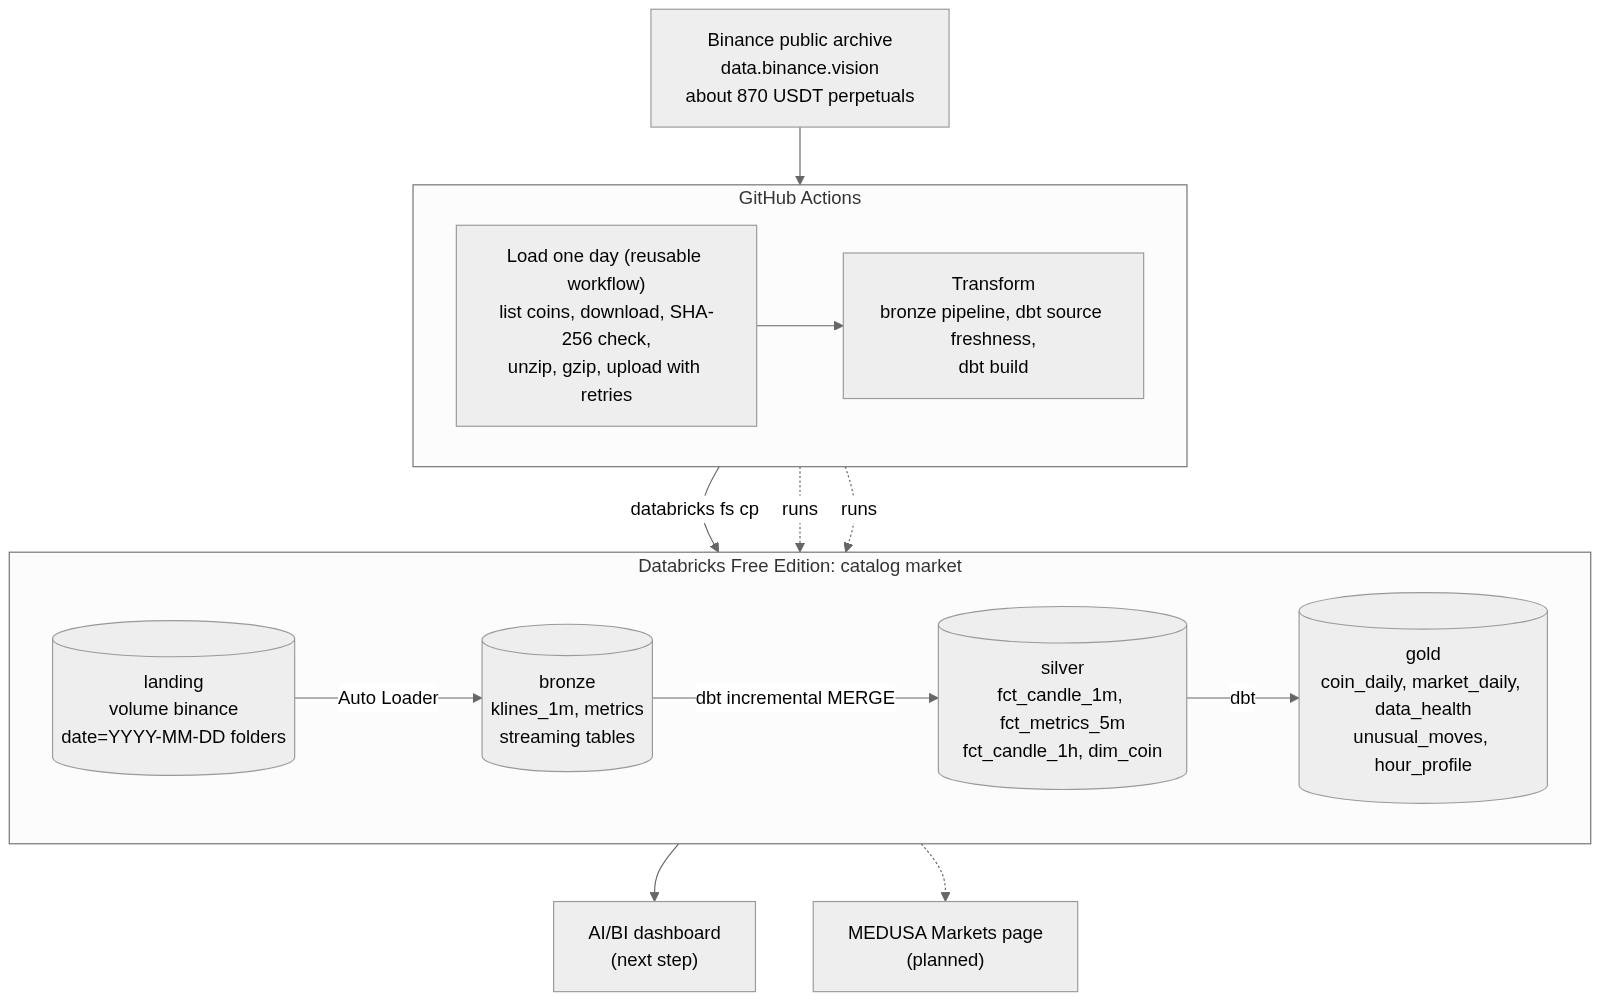
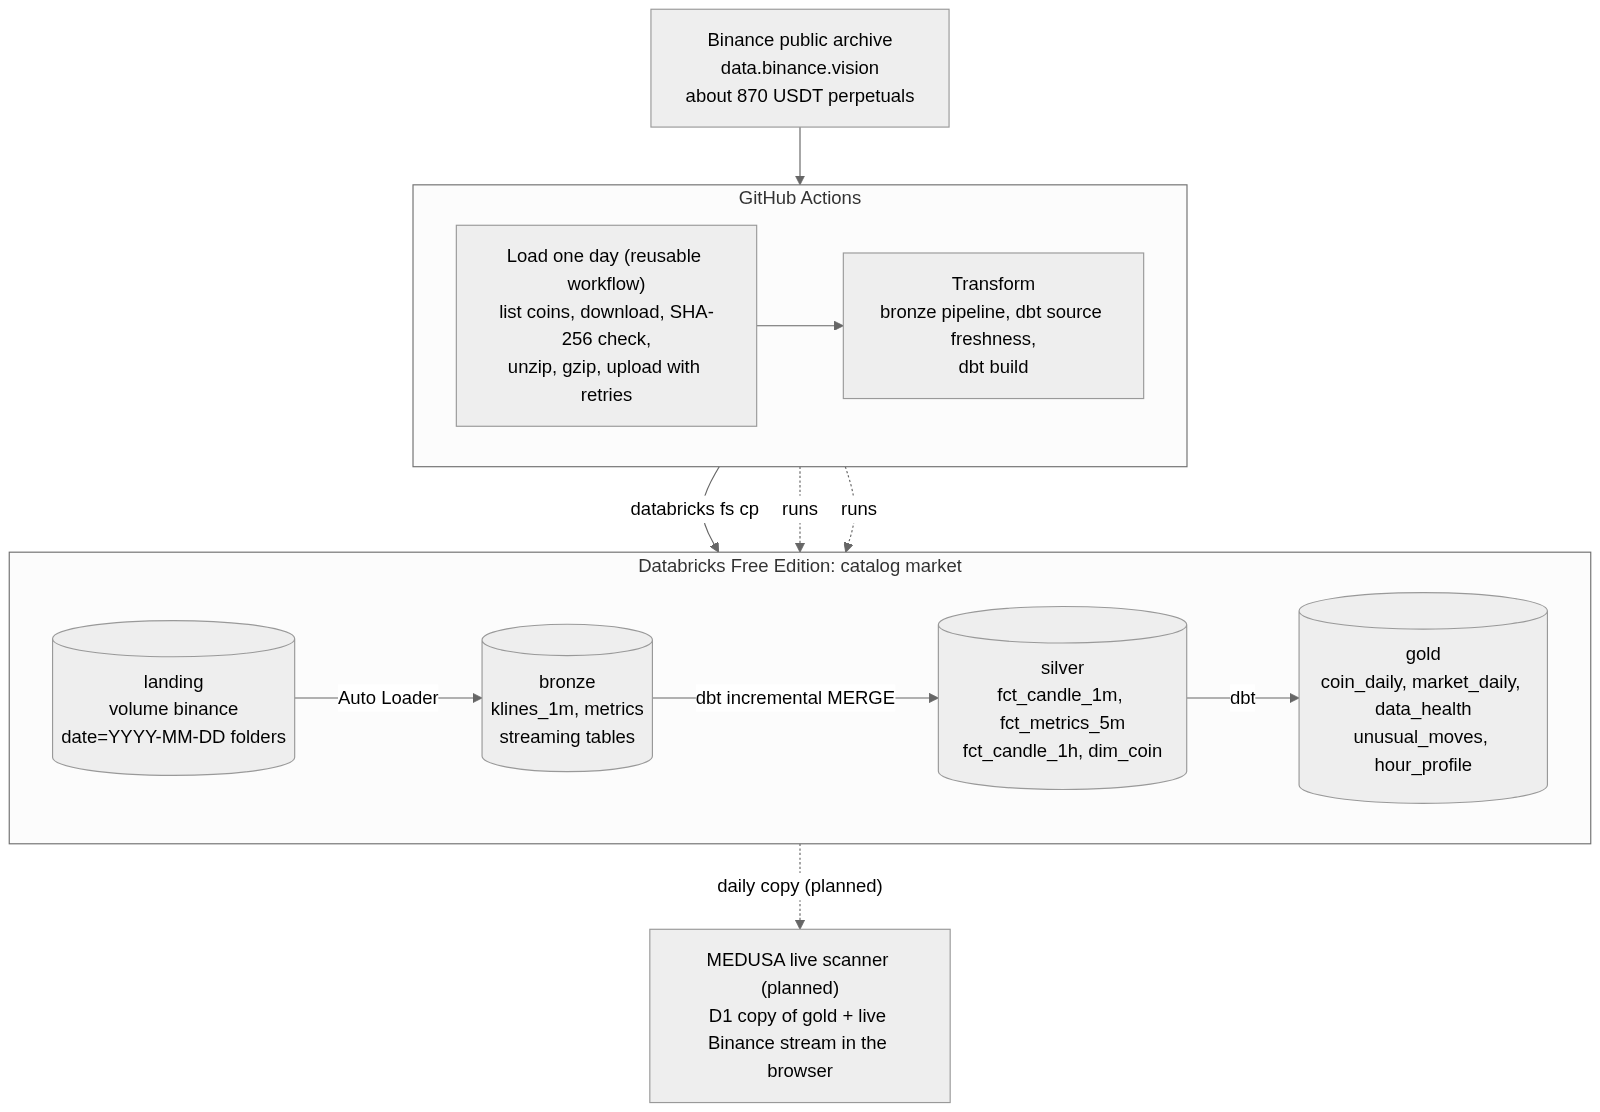
Docs: step 18 (active coins), ADR-018, updated diagrams; live scanner replaces the dashboard plan

diff --git a/lakehouse/docs/steps/18-active-coins.md b/lakehouse/docs/steps/18-active-coins.md
@@ -1,0 +1,86 @@
+# Step 18: Count only coins that actually trade
+
+[← Lakehouse home](../../README.md) · [← Step 17](17-daily-chain.md)
+
+| | |
+|---|---|
+| **Built** | 2026-10-20 |
+| **Commit** | `c584f93` Lakehouse: count only coins that trade (delisted contracts still get flat candles); coin status from trades |
+| **Files** | [`dbt/models/silver/int_coin_status.sql`](../../dbt/models/silver/int_coin_status.sql) · [`dbt/models/gold/market_daily.sql`](../../dbt/models/gold/market_daily.sql) · [`dbt/models/gold/data_health.sql`](../../dbt/models/gold/data_health.sql) · [`dbt/tests/assert_market_daily_counts_every_coin.sql`](../../dbt/tests/assert_market_daily_counts_every_coin.sql) · [`dbt/tests/assert_trading_coins_have_trades.sql`](../../dbt/tests/assert_trading_coins_have_trades.sql) (new) |
+| **Decision** | [ADR-018](../decisions.md#adr-018-a-coin-trades-only-if-it-has-trades) |
+
+## Goal
+
+Make sure every table counts only coins that really trade, before the live scanner is built on top
+of them: the scanner must never flag a dead contract, and each coin's "normal" must not be skewed.
+
+## What was wrong
+
+While testing the first scanner query, 129 coins had no spread of daily volume at all. They weren't
+missing data: they had candles every day, all flat, all with zero volume.
+
+| Check | Result |
+|---|---|
+| Coins in the archive, last day | 873 |
+| Coins with at least one trade in their last 3 days | 740 |
+| Coins with no trades in their last 3 days | 133 |
+| Those 133 in Binance's own contract list (`/fapi/v1/exchangeInfo`) | 132 are `SETTLING` (delisted, being settled); 1 is gone (the coin that dropped out on 2026-10-13) |
+| The 740 active coins | 519 crypto perpetuals and 220 TradFi perpetuals (stocks and similar), all `TRADING`, plus 1 coin delisted within the last 3 days |
+
+Binance keeps publishing flat, zero-volume candles for contracts it has delisted. The tables treated
+"has candles" as "trades", so on 2026-10-19 `market_daily` counted 135 "unchanged" coins (132 of
+them dead) and its median return was exactly 0. [Step 14](14-gold-market-and-health.md) explained
+that zero as "the unchanged coins sit in the middle"; this is why they were there.
+
+## Concepts
+
+| Concept | Here |
+|---|---|
+| **A row isn't proof of activity** | The archive's meaning changed without its format changing. Checking that data arrived isn't enough; check what it means. |
+| **Cross-source validation** | Comparing the archive with Binance's own contract list showed what the zero-volume coins were. |
+| **SCD Type 2 records a correction** | `dim_coin` closed the `trading` version of 132 coins and opened `not trading` versions dated when this build ran, although some stopped trading as early as 2026-09-24. System time (when the warehouse learned it) differs from valid time (when it happened). |
+| **Cheaper lineage** | `int_coin_status` now reads the hourly table (about 670,000 rows) instead of the 1-minute table (about 40 million and growing by 1.26 million a day); the days and trades are the same. |
+| **Cross-layer test** | A new test checks silver (`dim_coin`) against gold (`coin_daily`): every coin called trading must have traded in the last 3 days, and every coin called not trading must not have. |
+
+## Code walkthrough
+
+```sql
+-- int_coin_status.sql
+max(case when trades > 0 then candle_date end) as last_trade_date      -- from fct_candle_1h
+…
+case when last_trade_date >= date_sub(latest_date, 2) then 'trading' else 'not trading' end as status
+```
+
+```sql
+-- market_daily.sql
+with active   as (select * from {{ ref('coin_daily') }} where trades > 0),
+     inactive as (select trade_date, count(*) as coins_inactive
+                  from {{ ref('coin_daily') }} where trades = 0 group by trade_date),
+     days     as (select trade_date, count(*) as coins, … from active group by trade_date)
+select d.trade_date, d.coins, coalesce(i.coins_inactive, 0) as coins_inactive, …
+```
+
+`data_health` also gets `coins_inactive`. The reconciliation test now checks that active plus
+inactive coins make up every coin in `coin_daily`, and that up, down and flat add up to the active
+coins with a return.
+
+## How to run
+
+From `lakehouse/dbt/`: `../.venv/Scripts/dbt build`
+
+## Result
+
+`PASS=77 WARN=0 ERROR=0` (9 models, 1 snapshot, 67 tests) in 3 minutes 36 seconds.
+
+| | Before | After |
+|---|---|---|
+| `dim_coin` current versions | 872 trading, 1 not trading | 740 trading, 133 not trading (1,877 versions of 873 coins) |
+| `market_daily`, 2026-10-19: coins | 872 | 740 active + 132 `coins_inactive` |
+| Unchanged coins | 135 | 3 |
+| Median coin return | 0 (an artifact) | +0.40% |
+| Median realised volatility | 3.7% | 3.96% |
+| Breadth | 0.585 | 0.585 (flat coins never counted in breadth) |
+
+## Problems we hit
+
+None in the build; the problem was the finding itself.

diff --git a/lakehouse/docs/data-dictionary.md b/lakehouse/docs/data-dictionary.md
@@ -159,13 +159,13 @@ One row per **version** of a coin's description (SCD Type 2), kept by the dbt sn
 | `quote_asset` | STRING | Always `USDT` |
 | `multiplier` | INT | Coins per quoted unit: 1, 1,000 or 1,000,000 |
 | `first_candle_date` | DATE | First day with candles in the lakehouse |
-| `status` | STRING | `trading`, or `not trading` after 3 days without candles |
+| `status` | STRING | `trading`, or `not trading` after 3 days without a single trade (delisted contracts keep getting flat, zero-volume candles, so candles alone don't count) |
 | `dbt_scd_id` | STRING | dbt's unique id for the version |
 | `dbt_valid_from` | TIMESTAMP | When this version became true |
 | `dbt_valid_to` | TIMESTAMP | When it stopped being true; 9999-12-31 for the current version |
 | `dbt_updated_at` | TIMESTAMP | When dbt recorded the version |
 
-Coins as of 2026-10-20: 872, all `trading`; 857 with multiplier 1, 12 with 1,000, 3 with 1,000,000. After the 30-day backfill: 873 coins (one delisted on 2026-10-13 is `not trading`), and the 872 earlier coins have a second version because their `first_candle_date` moved to 2026-09-18 or their true listing day. Validity times are when the warehouse recorded each version, not market events.
+Coins as of 2026-10-20: 872, all `trading`; 857 with multiplier 1, 12 with 1,000, 3 with 1,000,000. After the 30-day backfill: 873 coins (one delisted on 2026-10-13 is `not trading`), and the 872 earlier coins have a second version because their `first_candle_date` moved to 2026-09-18 or their true listing day. Validity times are when the warehouse recorded each version, not market events. Since [step 18](steps/18-active-coins.md) status comes from trades: 740 `trading`, 133 `not trading` (132 contracts Binance has delisted but still publishes flat candles for, and the coin that dropped out on 2026-10-13); 1,877 versions of 873 coins.
 
 Which coins were trading at a given time:
 
@@ -176,7 +176,7 @@ WHERE status = 'trading'
 ```
 
 `market.silver.int_coin_status` is the view the snapshot reads: each coin's state now, worked out
-from `fct_candle_1m`.
+from `fct_candle_1h` (first day with candles, last day with trades).
 
 ## Gold: `market.gold.coin_daily`
 
@@ -198,8 +198,9 @@ One row per coin per UTC day ([model](../dbt/models/gold/coin_daily.sql)); clust
 | `minutes`, `zero_volume_minutes`, `metric_snapshots` | Completeness: 1,440 minutes and 288 snapshots when complete |
 | `last_bronze_loaded_at` | Newest bronze load time behind the day |
 
-**What the data looks like:** 872 coins a day (744 with open interest). On 2026-10-19: 431 up, 306
-down, 135 unchanged; median realised volatility 3.7%.
+**What the data looks like:** 872 coins a day (744 with open interest), of which about 130 are
+delisted contracts with flat, zero-volume candles (`trades = 0`). On 2026-10-19, among the 740 coins
+that traded: 431 up, 306 down, 3 unchanged; median realised volatility 3.96%.
 
 ## Gold: `market.gold.market_daily`
 
@@ -208,7 +209,8 @@ The whole market, one row per UTC day, rebuilt from `coin_daily` on every run
 
 | Column | Meaning |
 |---|---|
-| `coins`, `coins_up`, `coins_down`, `coins_flat` | Coins with candles; how many closed above, below or at the previous close |
+| `coins`, `coins_up`, `coins_down`, `coins_flat` | Coins that traded that day; how many closed above, below or at the previous close |
+| `coins_inactive` | Coins with candles but no trades that day (delisted contracts), not counted anywhere else |
 | `breadth` | coins_up / (coins_up + coins_down) |
 | `coins_moved_20pct` | Coins that rose or fell 20% or more |
 | `median_return_1d`, `volume_weighted_return_1d` | The middle coin's return; returns weighted by USDT volume |
@@ -226,6 +228,7 @@ Is each day's data complete? One row per UTC day, rebuilt from `coin_daily` on e
 | Column | Meaning |
 |---|---|
 | `coins`, `coins_complete_candles`, `coins_incomplete_candles`, `missing_minutes` | Candle completeness (1,440 minutes per coin) |
+| `coins_inactive` | Coins with candles but not a single trade |
 | `coins_with_metrics`, `coins_complete_metrics`, `coins_incomplete_metrics`, `missing_metric_snapshots` | Metric completeness (288 snapshots per coin) |
 | `coins_new`, `coins_dropped` | Coins with no row the day before; coins that traded the day before but not this day |
 | `last_loaded_at` | Newest bronze load time behind the day |

diff --git a/lakehouse/docs/glossary.md b/lakehouse/docs/glossary.md
@@ -28,6 +28,7 @@ The data engineering terms used in this project, in plain words.
 | **Idempotent** | Running something again gives the same result and does no harm | DDL, downloader, uploads |
 | **Incremental model** | A dbt model that, after its first full build, processes only new data and merges it in | `fct_candle_1m` |
 | **Lakehouse** | Data stored as open-format files in cheap storage, with warehouse features (tables, SQL, transactions) on top | The whole platform |
+| **Lambda architecture** | A slow, complete and checked batch layer plus a fast, approximate live layer, combined where the data is served; the batch layer later replaces the live numbers | The planned live scanner: this lakehouse plus Binance's live stream |
 | **Landing zone** | Where raw files arrive, unchanged, before any processing | `market.landing.binance` |
 | **Lineage** | Knowing where each piece of data came from | `source_file`, `loaded_at` |
 | **Liquid clustering** | Delta's way of keeping data files grouped by chosen columns as data arrives, replacing partitions and Z-ordering | Silver tables |
@@ -38,11 +39,12 @@ The data engineering terms used in this project, in plain words.
 | **Rescued data** | A column that catches values that didn't fit the expected file layout, instead of losing them | `_rescued_data` |
 | **Retention** | How long each kind of data is kept | [ADR-011](decisions.md#adr-011-keep-1-minute-candles-for-a-limited-time) |
 | **Reusable workflow** | A GitHub Actions workflow other workflows call, so shared steps live in one place | `lakehouse-load-day.yml` |
-| **Reverse ETL / serving layer** | Copying finished warehouse tables to where an app can serve them | The planned MEDUSA Markets page |
+| **Reverse ETL / serving layer** | Copying finished warehouse tables to where an app can serve them | The planned live scanner in MEDUSA |
 | **SCD Type 2** | Keeping the full history of a dimension's changes, one row per version | `dim_coin` |
 | **Schema drift** | A source changing its columns or format over time | Caught by `_rescued_data` |
 | **Schema-on-read** | Applying column names and types when reading files, not when storing them | `read_files` in bronze |
 | **Serverless** | Compute that starts when needed and stops afterwards, with nothing to manage | Pipeline, SQL warehouse |
+| **Settling (contract)** | Binance's status for a futures contract it has delisted and is closing out. The archive keeps publishing flat, zero-volume candles for it | Why status comes from trades ([ADR-018](decisions.md#adr-018-a-coin-trades-only-if-it-has-trades)) |
 | **Snapshot (dbt)** | dbt's built-in way to record changes to a table over time as SCD Type 2 | `dim_coin` |
 | **Source freshness** | dbt's check of how long ago a source table last received data | `sources.yml` |
 | **Storage / compute separation** | Data sits in storage; engines (warehouses) start up to work on it and can be stopped | Databricks |

diff --git a/lakehouse/docs/decisions.md b/lakehouse/docs/decisions.md
@@ -23,8 +23,9 @@ entry replaces it and the old one is marked *Superseded*.
 | 013 | [Serve the public dashboard from a daily copy](#adr-013-serve-the-public-dashboard-from-a-daily-copy) | Accepted |
 | 014 | [DOUBLE, not DECIMAL, for prices and volumes](#adr-014-double-not-decimal-for-prices-and-volumes) | Accepted |
 | 015 | [Liquid clustering instead of partitions](#adr-015-liquid-clustering-instead-of-partitions) | Accepted |
-| 016 | [Coin history from the candles, with a grace period](#adr-016-coin-history-from-the-candles-with-a-grace-period) | Accepted |
+| 016 | [Coin history from the candles, with a grace period](#adr-016-coin-history-from-the-candles-with-a-grace-period) | Accepted; status rule superseded by ADR-018 |
 | 017 | [Orchestrate the daily chain in GitHub Actions](#adr-017-orchestrate-the-daily-chain-in-github-actions) | Accepted |
+| 018 | [A coin trades only if it has trades](#adr-018-a-coin-trades-only-if-it-has-trades) | Accepted |
 
 ---
 
@@ -282,4 +283,23 @@ every run and masked in the log.
 **Consequences:** The whole chain lives in one place, with one set of secrets and one failure email.
 dbt is installed on every run (pip's cache keeps that quick). Everything depends on GitHub's
 schedule; if a Databricks-side dbt task becomes possible, the transform can move there.
+
+## ADR-018: A coin trades only if it has trades
+
+**Status:** Accepted, 2026-10-20. Supersedes the status rule of
+[ADR-016](#adr-016-coin-history-from-the-candles-with-a-grace-period).
+
+**Context:** ADR-016 counted a coin as trading while it had candles. Binance keeps publishing flat,
+zero-volume candles for contracts it has delisted ("settling"): 132 of the 873 coins on 2026-10-19,
+confirmed against Binance's own contract list. They were counted as trading, added about 130
+"unchanged" coins to every day and pulled the median return to exactly 0.
+
+**Decision:** A coin is *trading* while it has had at least one trade in the last 3 days, and *not
+trading* after that. Market-wide measures (`market_daily`) count only coin-days with trades; coin-days
+with candles but no trades are counted separately as `coins_inactive`. Candles are still kept and
+loaded: they are what the source publishes.
+
+**Consequences:** `dim_coin` recorded 132 corrections as new versions, dated when the warehouse
+learned of them, not when the coins stopped trading. Market medians and counts are now real. A test
+checks the status against the last 3 days of trades in `coin_daily`.
 

diff --git a/lakehouse/README.md b/lakehouse/README.md
@@ -2,7 +2,8 @@
 
 A daily data pipeline for crypto futures market data. Every morning it loads the previous day's
 1-minute candles and market metrics for every Binance USDⓈ-M perpetual into a Databricks
-lakehouse, where the history is kept and analysed. Dashboards read the finished tables.
+lakehouse, where the history is kept and analysed. A live scanner in MEDUSA (planned) compares
+each coin's move today with its own history from these tables.
 
 It lives inside the [MEDUSA](../README.md) repository: MEDUSA is the trading journal and backtesting
 app; this folder is its market data platform.
@@ -17,9 +18,8 @@ flowchart LR
     C --> E["Bronze<br>Lakeflow pipeline + Auto Loader"]
     E --> F["Silver<br>dbt models"]
     F --> G["Gold<br>dbt models"]
-    G --> H["AI/BI dashboard + Genie (planned)"]
   end
-  G -.->|daily copy, planned| I["MEDUSA Markets page<br>Cloudflare"]
+  G -.->|daily copy, planned| I["MEDUSA live scanner<br>Cloudflare D1 + live Binance stream"]
 ```
 
 | Layer | Holds | Built by |
@@ -60,7 +60,8 @@ flowchart LR
 | [15. Backfill](docs/steps/15-backfill.md) | Load 30 past days through the whole pipeline (GitHub Actions matrix + reusable workflow) | Done |
 | [16. Gold: unusual_moves and hour_profile](docs/steps/16-gold-unusual-moves-and-hours.md) | Each coin's day against its own history; hour-of-day patterns | Done |
 | [17. Daily chain](docs/steps/17-daily-chain.md) | Every morning: download → landing → bronze → dbt, all from GitHub Actions | Done |
-| 18. Dashboard | Analysis of yesterday and of history, read from the gold tables | Next |
+| [18. Active coins](docs/steps/18-active-coins.md) | Count only coins that trade: delisted contracts still get flat candles | Done |
+| 19. Coin baseline | Each coin's "normal" (yesterday's close, 30-day spread of returns and volume) for the live scanner | Next |
 
 ## Folder layout
 

diff --git a/lakehouse/docs/architecture.md b/lakehouse/docs/architecture.md
@@ -23,11 +23,10 @@ flowchart TB
     BR["bronze.klines_1m · bronze.metrics<br>streaming tables (Auto Loader)"]
     SI["silver (dbt)<br>typed facts · dim_coin (SCD2) · 1h candles"]
     GO["gold (dbt)<br>coin_daily · market_daily · unusual_moves · hour_profile · data_health"]
-    DA["AI/BI dashboard + Genie (planned)"]
-    L --> BR --> SI --> GO --> DA
+    L --> BR --> SI --> GO
   end
   D2 --> L
-  GO -.->|"daily copy (planned)"| CF["MEDUSA Markets page<br>Cloudflare D1"]
+  GO -.->|"daily copy (planned)"| CF["MEDUSA live scanner<br>Cloudflare D1 + live Binance stream"]
 ```
 
 ## Where each part runs
@@ -40,7 +39,7 @@ flowchart TB
 | Silver and gold | dbt Core on the SQL warehouse | SQL models with tests, snapshots, documentation and lineage. |
 | Orchestration | GitHub Actions: load, then transform ([ADR-017](decisions.md#adr-017-orchestrate-the-daily-chain-in-github-actions)) | One place for the whole chain, one set of secrets and one failure email. |
 | Deploying Databricks resources | Databricks Asset Bundle ([`databricks.yml`](../databricks.yml)) | Jobs and pipelines are defined as code and deployed with one command. |
-| Public dashboard | MEDUSA on Cloudflare (planned) | Recruiters can't sign in to a Databricks workspace; a daily copy of the small gold tables is served from MEDUSA's own database. |
+| Live scanner (planned) | MEDUSA on Cloudflare, with live prices streamed from Binance to the browser | Readers can't sign in to a Databricks workspace, and day trading needs today's prices: a daily copy of the small gold tables in MEDUSA's database gives each coin's normal, and the browser compares the live market with it. |
 
 ## Catalog layout
 

diff --git a/lakehouse/docs/steps/14-gold-market-and-health.md b/lakehouse/docs/steps/14-gold-market-and-health.md
@@ -64,11 +64,15 @@ From `lakehouse/dbt/`: `../.venv/Scripts/dbt build --select market_daily data_he
 | Measure | Value |
 |---|---|
 | Breadth | 0.585 (431 up, 306 down, 135 unchanged) |
-| Median coin's return | exactly 0 (the unchanged coins sit in the middle) |
+| Median coin's return | exactly 0 (the unchanged coins sit in the middle; see the note below) |
 | Volume-weighted return | +2.58% |
 | Bitcoin | −0.21%, 21.7% of all volume |
 | Coins that moved 20% or more | 9 |
 | Total open interest | 25.9 billion USDT |
+
+> **Corrected in [step 18](18-active-coins.md):** 132 of the 135 unchanged coins were contracts
+> Binance had delisted, which still get flat, zero-volume candles. Counting only coins that traded,
+> 2026-10-19 had 740 coins, 3 unchanged and a median return of +0.40%.
 
 `data_health`:
 

diff --git a/lakehouse/docs/steps/17-daily-chain.md b/lakehouse/docs/steps/17-daily-chain.md
@@ -1,6 +1,6 @@
 # Step 17: Daily chain (load, bronze, dbt)
 
-[← Lakehouse home](../../README.md) · [← Step 16](16-gold-unusual-moves-and-hours.md)
+[← Lakehouse home](../../README.md) · [← Step 16](16-gold-unusual-moves-and-hours.md) · Next: [Step 18 →](18-active-coins.md)
 
 | | |
 |---|---|
